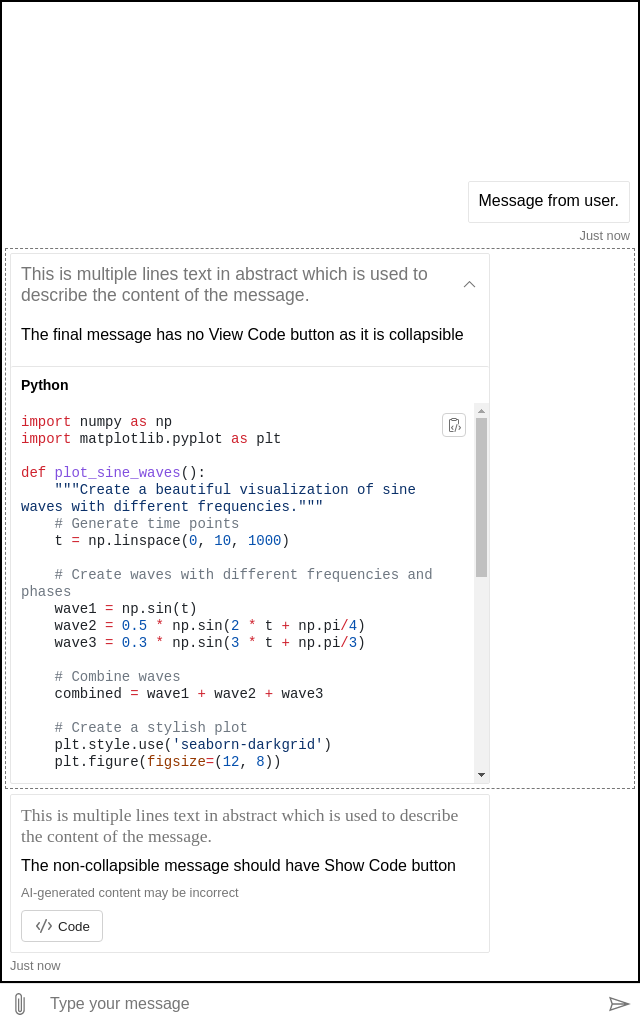
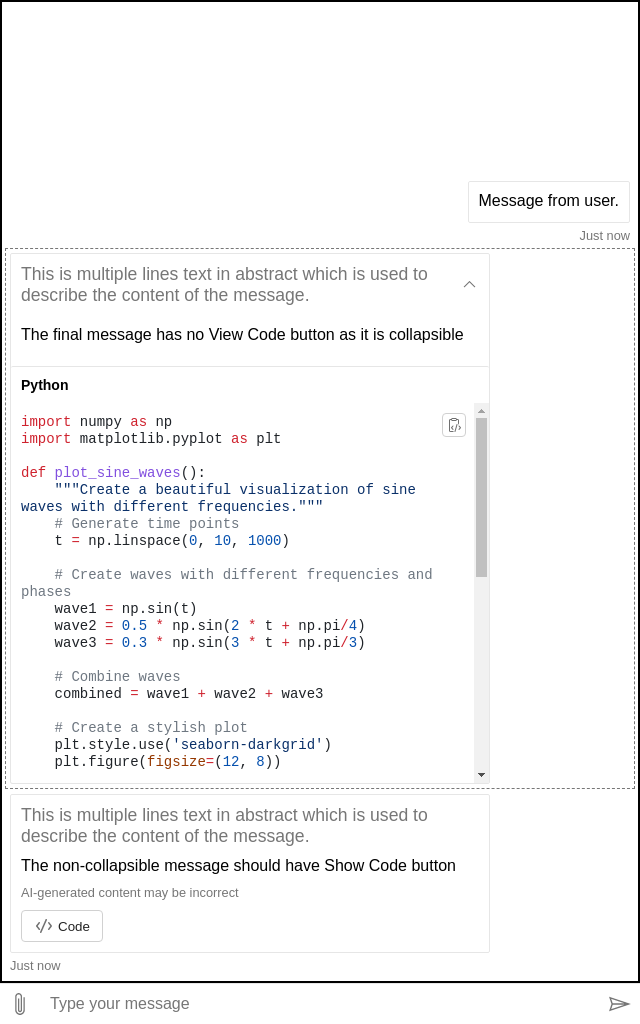
Fix font

Changed region(s): [[0.0312, 0.7812, 0.7188, 0.8438]]

diff --git a/packages/component/src/Activity/StackedLayout.module.css b/packages/component/src/Activity/StackedLayout.module.css
@@ -1,7 +1,7 @@
 :global(.webchat) .stacked-layout {
+  font-family: var(--webchat__font--primary);
+  margin-inline: var(--webchat__padding--regular);
   position: relative; /* This is to keep screen reader text in the destinated area. */
-  margin-left: var(--webchat__padding--regular);
-  margin-right: var(--webchat__padding--regular);
 
   .stacked-layout__attachment-row,
   .stacked-layout__main,
